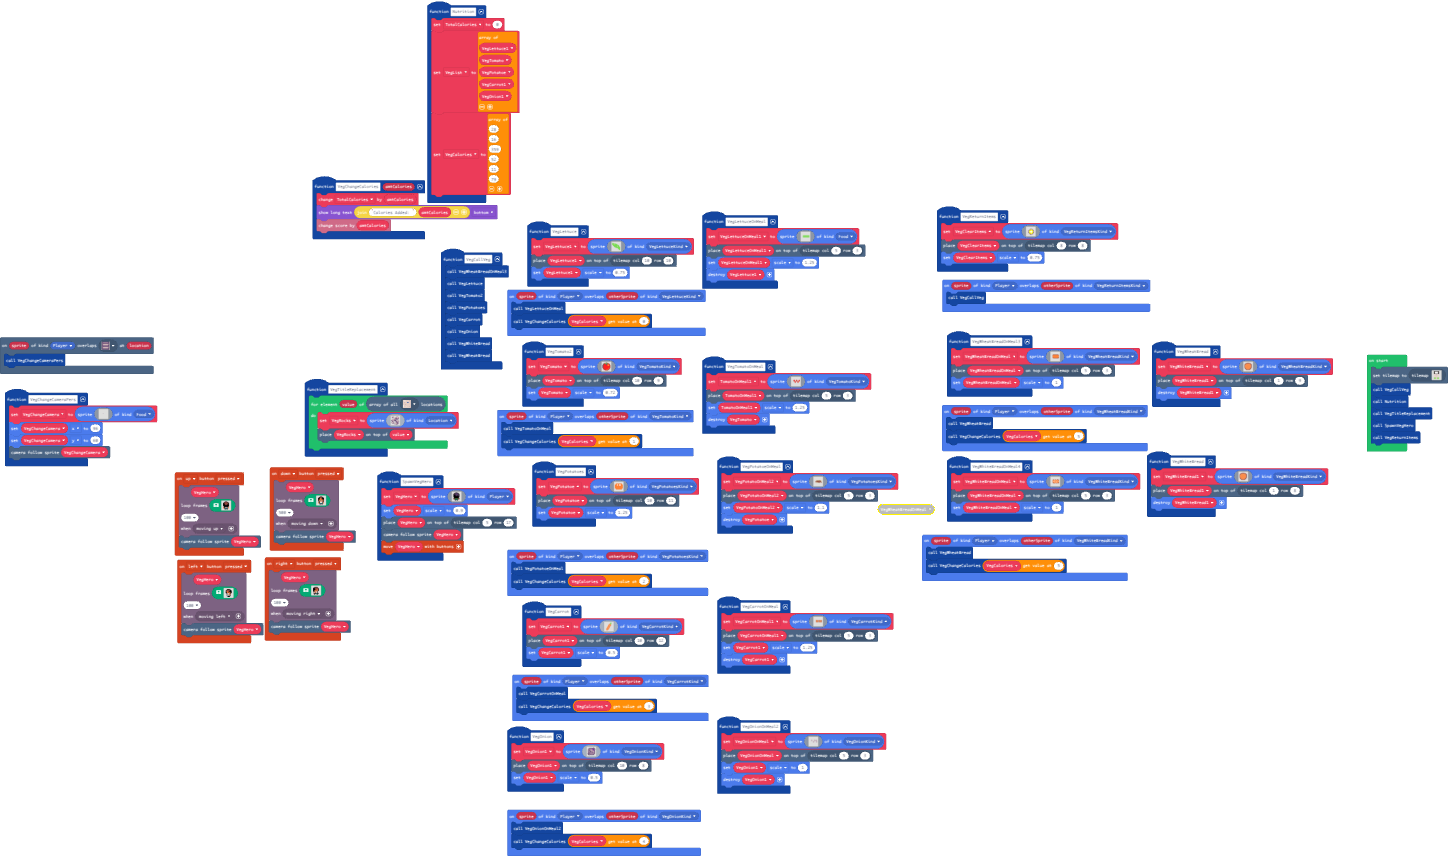
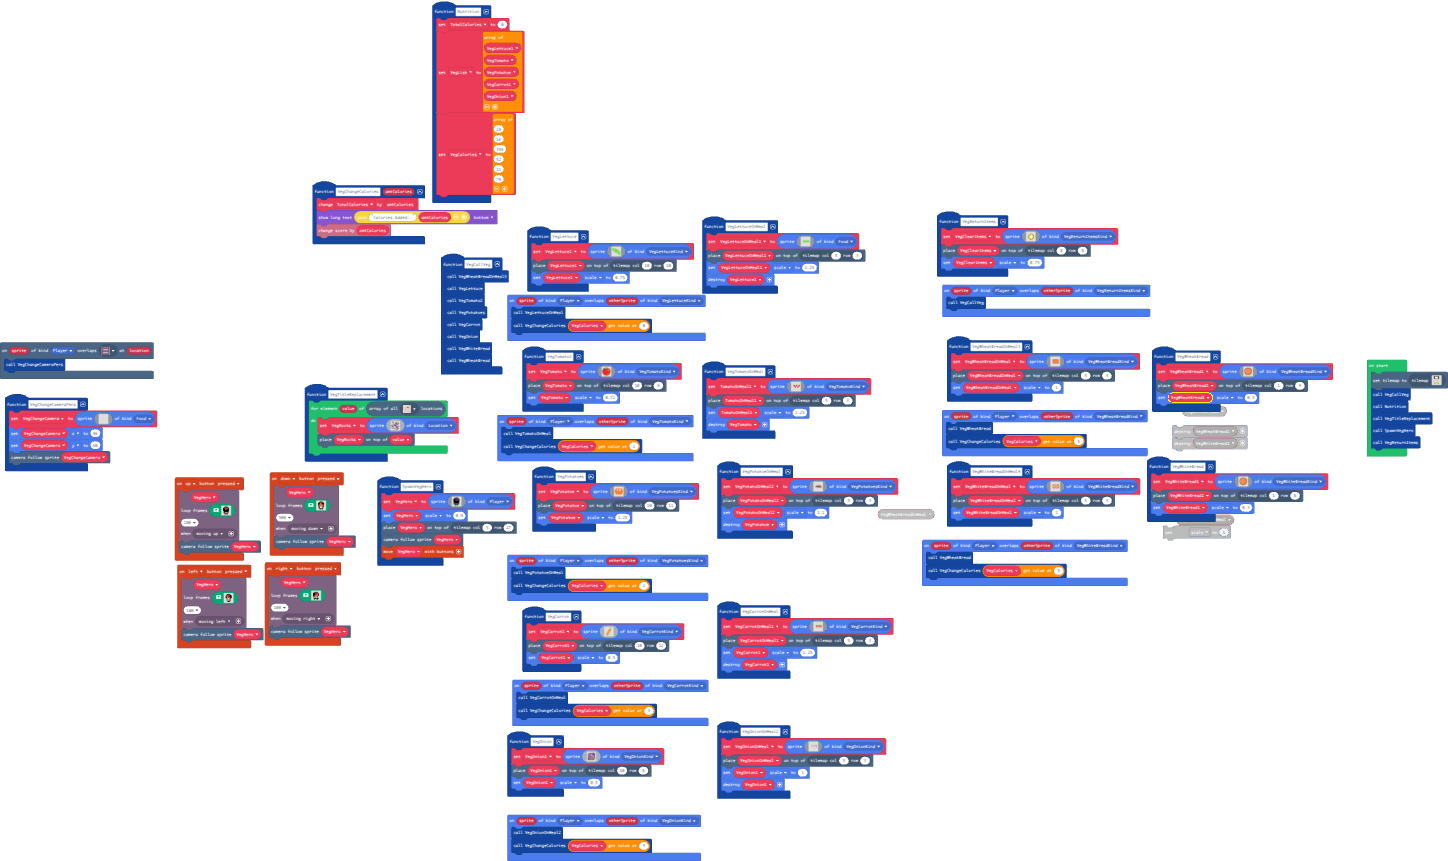
Update main.blocks, main.ts

diff --git a/main.ts b/main.ts
@@ -486,7 +486,7 @@ function VegWhiteBread () {
         ............eeeeeeeeeeeeeeeeeeee.............
         `, SpriteKind.VegWhiteBreadKind)
     tiles.placeOnTile(VegWhiteBread1, tiles.getTileLocation(1, 8))
-    sprites.destroy(VegWhiteBread1)
+    VegWhiteBread1.scale = 0.3
 }
 controller.left.onEvent(ControllerButtonEvent.Pressed, function () {
     characterAnimations.loopFrames(
@@ -873,7 +873,7 @@ sprites.onOverlap(SpriteKind.Player, SpriteKind.VegTomatoKind, function (sprite,
     VegChangeCalories(VegCalories[1])
 })
 function VegWheatBread () {
-    VegWhiteBread1 = sprites.create(img`
+    VegWheatBread1 = sprites.create(img`
         .............................................
         ................eeeeeeeeeeeee................
         ...........eeeeeeeeeeeeeeeeeeeeeee...........
@@ -915,9 +915,10 @@ function VegWheatBread () {
         ...........eeeeeeeeeeeeeeeeeeeeee............
         ............eeeeeeeeeeeeeeeeeeee.............
         `, SpriteKind.VegWheatBreadKind)
-    tiles.placeOnTile(VegWhiteBread1, tiles.getTileLocation(1, 9))
-    sprites.destroy(VegWhiteBread1)
+    tiles.placeOnTile(VegWheatBread1, tiles.getTileLocation(1, 9))
+    VegWheatBread1.scale = 0.3
 }
+let VegWheatBread1: Sprite = null
 let VegOnionOnMeal: Sprite = null
 let VegRocks: Sprite = null
 let VegClearItems: Sprite = null
